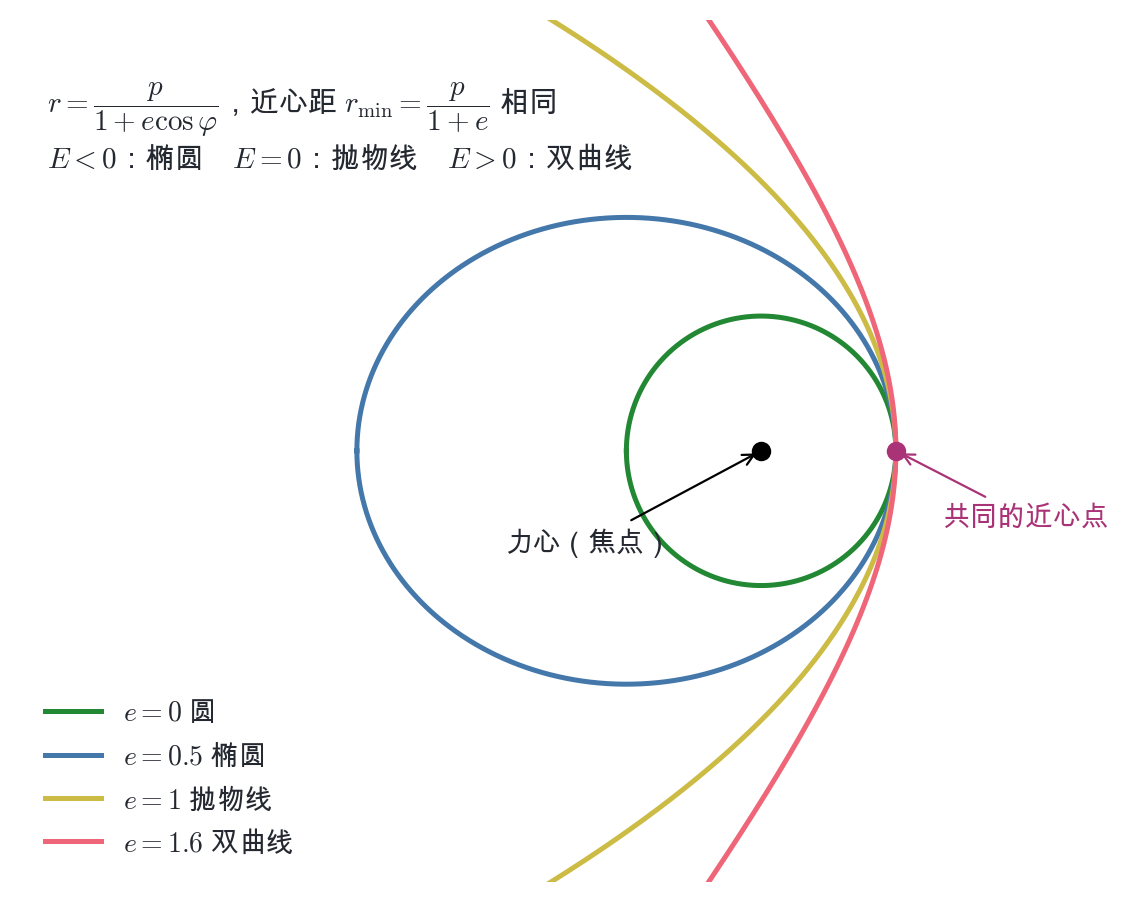
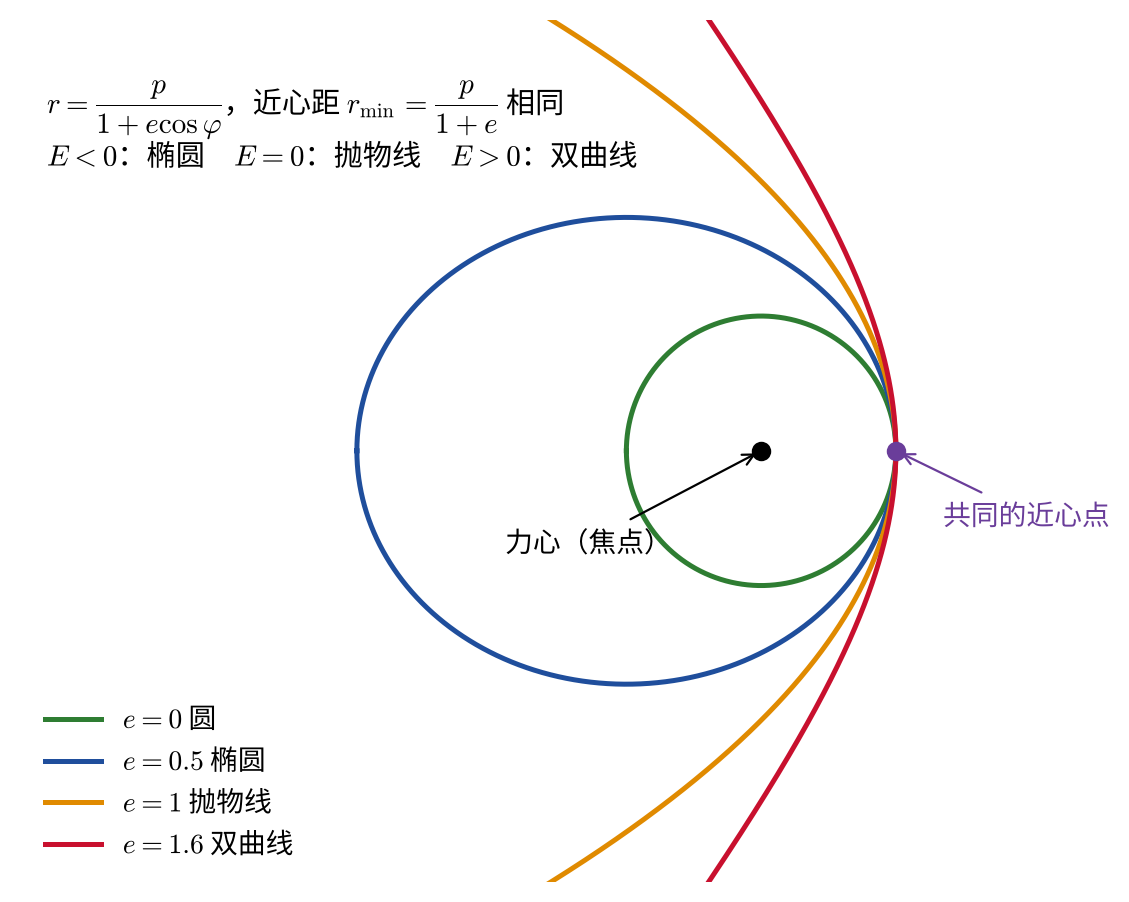
Sync central-force lecture and figures

diff --git a/materials/Mechanics/中心力场.md b/materials/Mechanics/中心力场.md
@@ -37,7 +37,7 @@ r=|\vec r|.
 $$
 
 <div class="lecture-figure" style="text-align:center">
-<img src="./figures/two/twomass.png" alt="两体问题示意" style="zoom:50%;" />
+<img src="./figures/two/twomass.png" alt="两体问题示意" style="zoom:10%;" />
 </div>
 
 本节的核心任务是：把“两个相互作用的粒子”这一问题，转化为“一个虚拟粒子在给定势场中运动”这一更简单的问题。这一转化依赖于两条我们在上一章已经证明过的守恒律——总动量守恒（对应空间平移不变性）和总角动量守恒（对应空间转动不变性）——下面会看到：总动量守恒把六个自由度（两个粒子各三个坐标）中的三个（质心运动）分离出去；角动量守恒先把相对运动限制在一个固定平面内，平面内的角向运动又由角动量的大小直接确定。最后只剩下一个真正需要求解的自由度：粒子间的相对距离 $r$。
@@ -318,7 +318,7 @@ $$
 即令动能为零时的 $x$ 值。
 
 <div class="lecture-figure" style="text-align:center">
-<img src="./figures/two/harmonic.png" alt="一维谐振子势" style="zoom:50%;" />
+<img src="./figures/two/harmonic.png" alt="一维谐振子势" style="zoom:20%;" />
 </div>
 
 周期为
@@ -414,7 +414,7 @@ $$
 在这种情况下，经过 $n$ 个径向周期，质点径矢转过 $m$ 圈后回到初始位置，轨道封闭。图示展示了 $r_{\min}$ 与 $r_{\max}$ 之间的进动花瓣形轨道；每个径向周期转过 $\Delta\varphi$。
 
 <div class="lecture-figure" style="text-align:center">
-<img src="./figures/two/orbits.png" alt="进动花瓣形轨道" style="zoom:70%;" />
+<img src="./figures/two/orbits.png" alt="进动花瓣形轨道" style="zoom:20%;" />
 </div>
 
 只有两类特殊中心势能保证所有有界轨道封闭：
@@ -504,7 +504,7 @@ $$
 - 当 $E\ge0$ 时，为无界运动。
 
 <div class="lecture-figure" style="text-align:center">
-<img src="./figures/two/Veff.png" alt="有效势与运动类型" style="zoom:50%;" />
+<img src="./figures/two/Veff.png" alt="有效势与运动类型" style="zoom:20%;" />
 </div>
 
 直观上看，有效势 $V_{\mathrm{eff}}(r)=-\alpha/r+J^2/(2\mu r^2)$ 是两项之和：$r\to0$ 时离心项 $J^2/(2\mu r^2)$ 占主导并发散到 $+\infty$（阻止粒子落入力心），$r\to\infty$ 时引力项 $-\alpha/r$ 占主导，使有效势取负值并从下方趋于 $0$，因此中间必然存在一个极小值，对应上面讨论的三种运动类型。
@@ -591,7 +591,7 @@ $2p$ 称为正焦弦（latus rectum）。
 下图画出近心距相同、偏心率不同的几条轨道，可以看到由圆到椭圆、抛物线和双曲线的连续过渡。
 
 <div class="lecture-figure" style="text-align:center">
-<img src="./figures/two/conic_sections.png" alt="近心点相同、偏心率不同的圆锥曲线" style="width:70%;" />
+<img src="./figures/two/conic_sections.png" alt="近心点相同、偏心率不同的圆锥曲线" style="width:30%;" />
 </div>
 
 对椭圆轨道 $E<0$，半长轴 $a$ 和半短轴 $b$ 为
@@ -636,7 +636,7 @@ $$
 图示椭圆的长轴为 $2a$、短轴为 $2b$，焦点相对中心的距离为 $ae$，正焦弦半长为 $p$。
 
 <div class="lecture-figure" style="text-align:center">
-<img src="./figures/two/eccentric.png" alt="椭圆轨道几何" style="zoom:50%;" />
+<img src="./figures/two/eccentric.png" alt="椭圆轨道几何" style="zoom:20%;" />
 </div>
 
 <!-- 原 PDF 第 6 页 -->
@@ -738,7 +738,7 @@ $$
 </div>
 
 <div class="lecture-figure" style="text-align:center">
-<img src="./figures/two/repulsive.png" alt="排斥势双曲线轨道" style="zoom:50%;" />
+<img src="./figures/two/repulsive.png" alt="排斥势双曲线轨道" style="zoom:20%;" />
 </div>
 
 双曲线轨道对应 $E>0$ 的非束缚运动，粒子从无穷远来、又飞向无穷远，中途受到中心力场的偏转——这正是下面[“有心力场的散射问题”](#有心力场的散射问题)一节要系统研究的物理图像。
@@ -1063,7 +1063,7 @@ $$
 考虑随双星共同旋转的非惯性系，以 $O$ 为原点，角速度为 $\vec\Omega$。星体 1 表面任意一点相对星体 1 的位置矢量为 $\vec x$，则该点单位质量的有效势能为
 
 <div class="lecture-figure" style="text-align:center">
-<img src="./figures/two/two_body.png" alt="双星系统与潮汐势矢量" style="zoom:50%;" />
+<img src="./figures/two/two_body.png" alt="双星系统与潮汐势矢量" style="zoom:30%;" />
 </div>
 
 $$
@@ -1225,7 +1225,7 @@ $$
 以双星质心为坐标原点，假定两星体在 $x$-$y$ 平面内。取与星体一起作匀速转动的非惯性系，并令两星体连线方向为 $x$ 轴。可将两星体位置写成
 
 <div class="lecture-figure" style="text-align:center">
-<img src="./figures/two/two_body_2.png" alt="双星系统几何设置" style="zoom:50%;" />
+<img src="./figures/two/two_body_2.png" alt="双星系统几何设置" style="zoom:30%;" />
 </div>
 
 $$
@@ -1485,7 +1485,7 @@ $$
 即与 $m_1,m_2$ 构成等边三角形。图示中，$L_1$ 位于两星体之间，$L_2$ 位于小星体外侧，$L_3$ 位于大星体另一侧，而 $L_4,L_5$ 分别位于连线两侧的等边三角形顶点。
 
 <div class="lecture-figure" style="text-align:center">
-<img src="./figures/two/lagrange_point.png" alt="五个拉格朗日点" style="zoom:50%;" />
+<img src="./figures/two/lagrange_point.png" alt="五个拉格朗日点" style="zoom:20%;" />
 </div>
 
 欧拉于 1765 年首先发现 $L_1,L_2,L_3$；拉格朗日于 1772 年发现 $L_4,L_5$。前三者称为共线拉格朗日点（collinear），后两者称为等边拉格朗日点（equilateral）。
@@ -1559,7 +1559,7 @@ $$
 等式 $V_{\mathrm{eff}}(x,y)=E_J$ 定义的曲线上质点速度为零，称为**零速度曲线**，它是一维运动中“转折点”在二维中的推广。下图画出了 $V_{\mathrm{eff}}$ 的若干等值线（为了看清楚，取 $\bar\mu=m_2/(m_1+m_2)=0.1$，坐标与正文一致，$m_2$ 在左）。三条粗线分别通过 $L_1,L_2,L_3$；灰色区域是 $E_J$ 介于 $V_{\mathrm{eff}}(L_1)$ 与 $V_{\mathrm{eff}}(L_2)$ 之间时的禁区。
 
 <div class="lecture-figure" style="text-align:center">
-<img src="./figures/two/zero_velocity.png" alt="受限三体问题的零速度曲线" style="zoom:50%;" />
+<img src="./figures/two/zero_velocity.png" alt="受限三体问题的零速度曲线" style="zoom:30%;" />
 </div>
 
 当 $m_2<m_1$ 时，五个拉格朗日点的有效势满足
@@ -1725,7 +1725,7 @@ $U_{xx}$ 和 $U_{yy}$ 都为正，说明 $L_4$ 是势能 $V_{\rm eff}=-U$ 的极
 如图所示，粒子从无穷远入射，在原点附近被中心力场散射，运动方向发生偏转，最后飞向无穷远。图中绿色曲线为实际轨道，红色直线为入射与出射渐近线，原点为力心。
 
 <div class="lecture-figure" style="text-align:center">
-<img src="./figures/two/scattering.png" alt="散射几何" style="zoom:50%;" />
+<img src="./figures/two/scattering.png" alt="散射几何" style="zoom:20%;" />
 </div>
 
 ### 散射截面的含义
@@ -2213,7 +2213,7 @@ $$
 下图比较了硬球与库仑势的 $\theta(b)$（图中取 $k=a$）。硬球的 $\theta(b)$ 在 $b=a$ 处截止；库仑势的 $\theta(b)=2\arctan(k/b)$ 则在 $b\to\infty$ 时只缓慢地按 $2k/b$ 趋于零。
 
 <div class="lecture-figure" style="text-align:center">
-<img src="./figures/two/theta_b.png" alt="硬球与库仑势的散射角随碰撞参数的变化" style="zoom:50%;" />
+<img src="./figures/two/theta_b.png" alt="硬球与库仑势的散射角随碰撞参数的变化" style="zoom:20%;" />
 </div>
 
 这个“长尾巴”的后果是：小角度时卢瑟福截面 $d\sigma/d\Omega\simeq4k^2/\theta^4$，偏转角大于 $\theta_{\min}$ 的截面为
